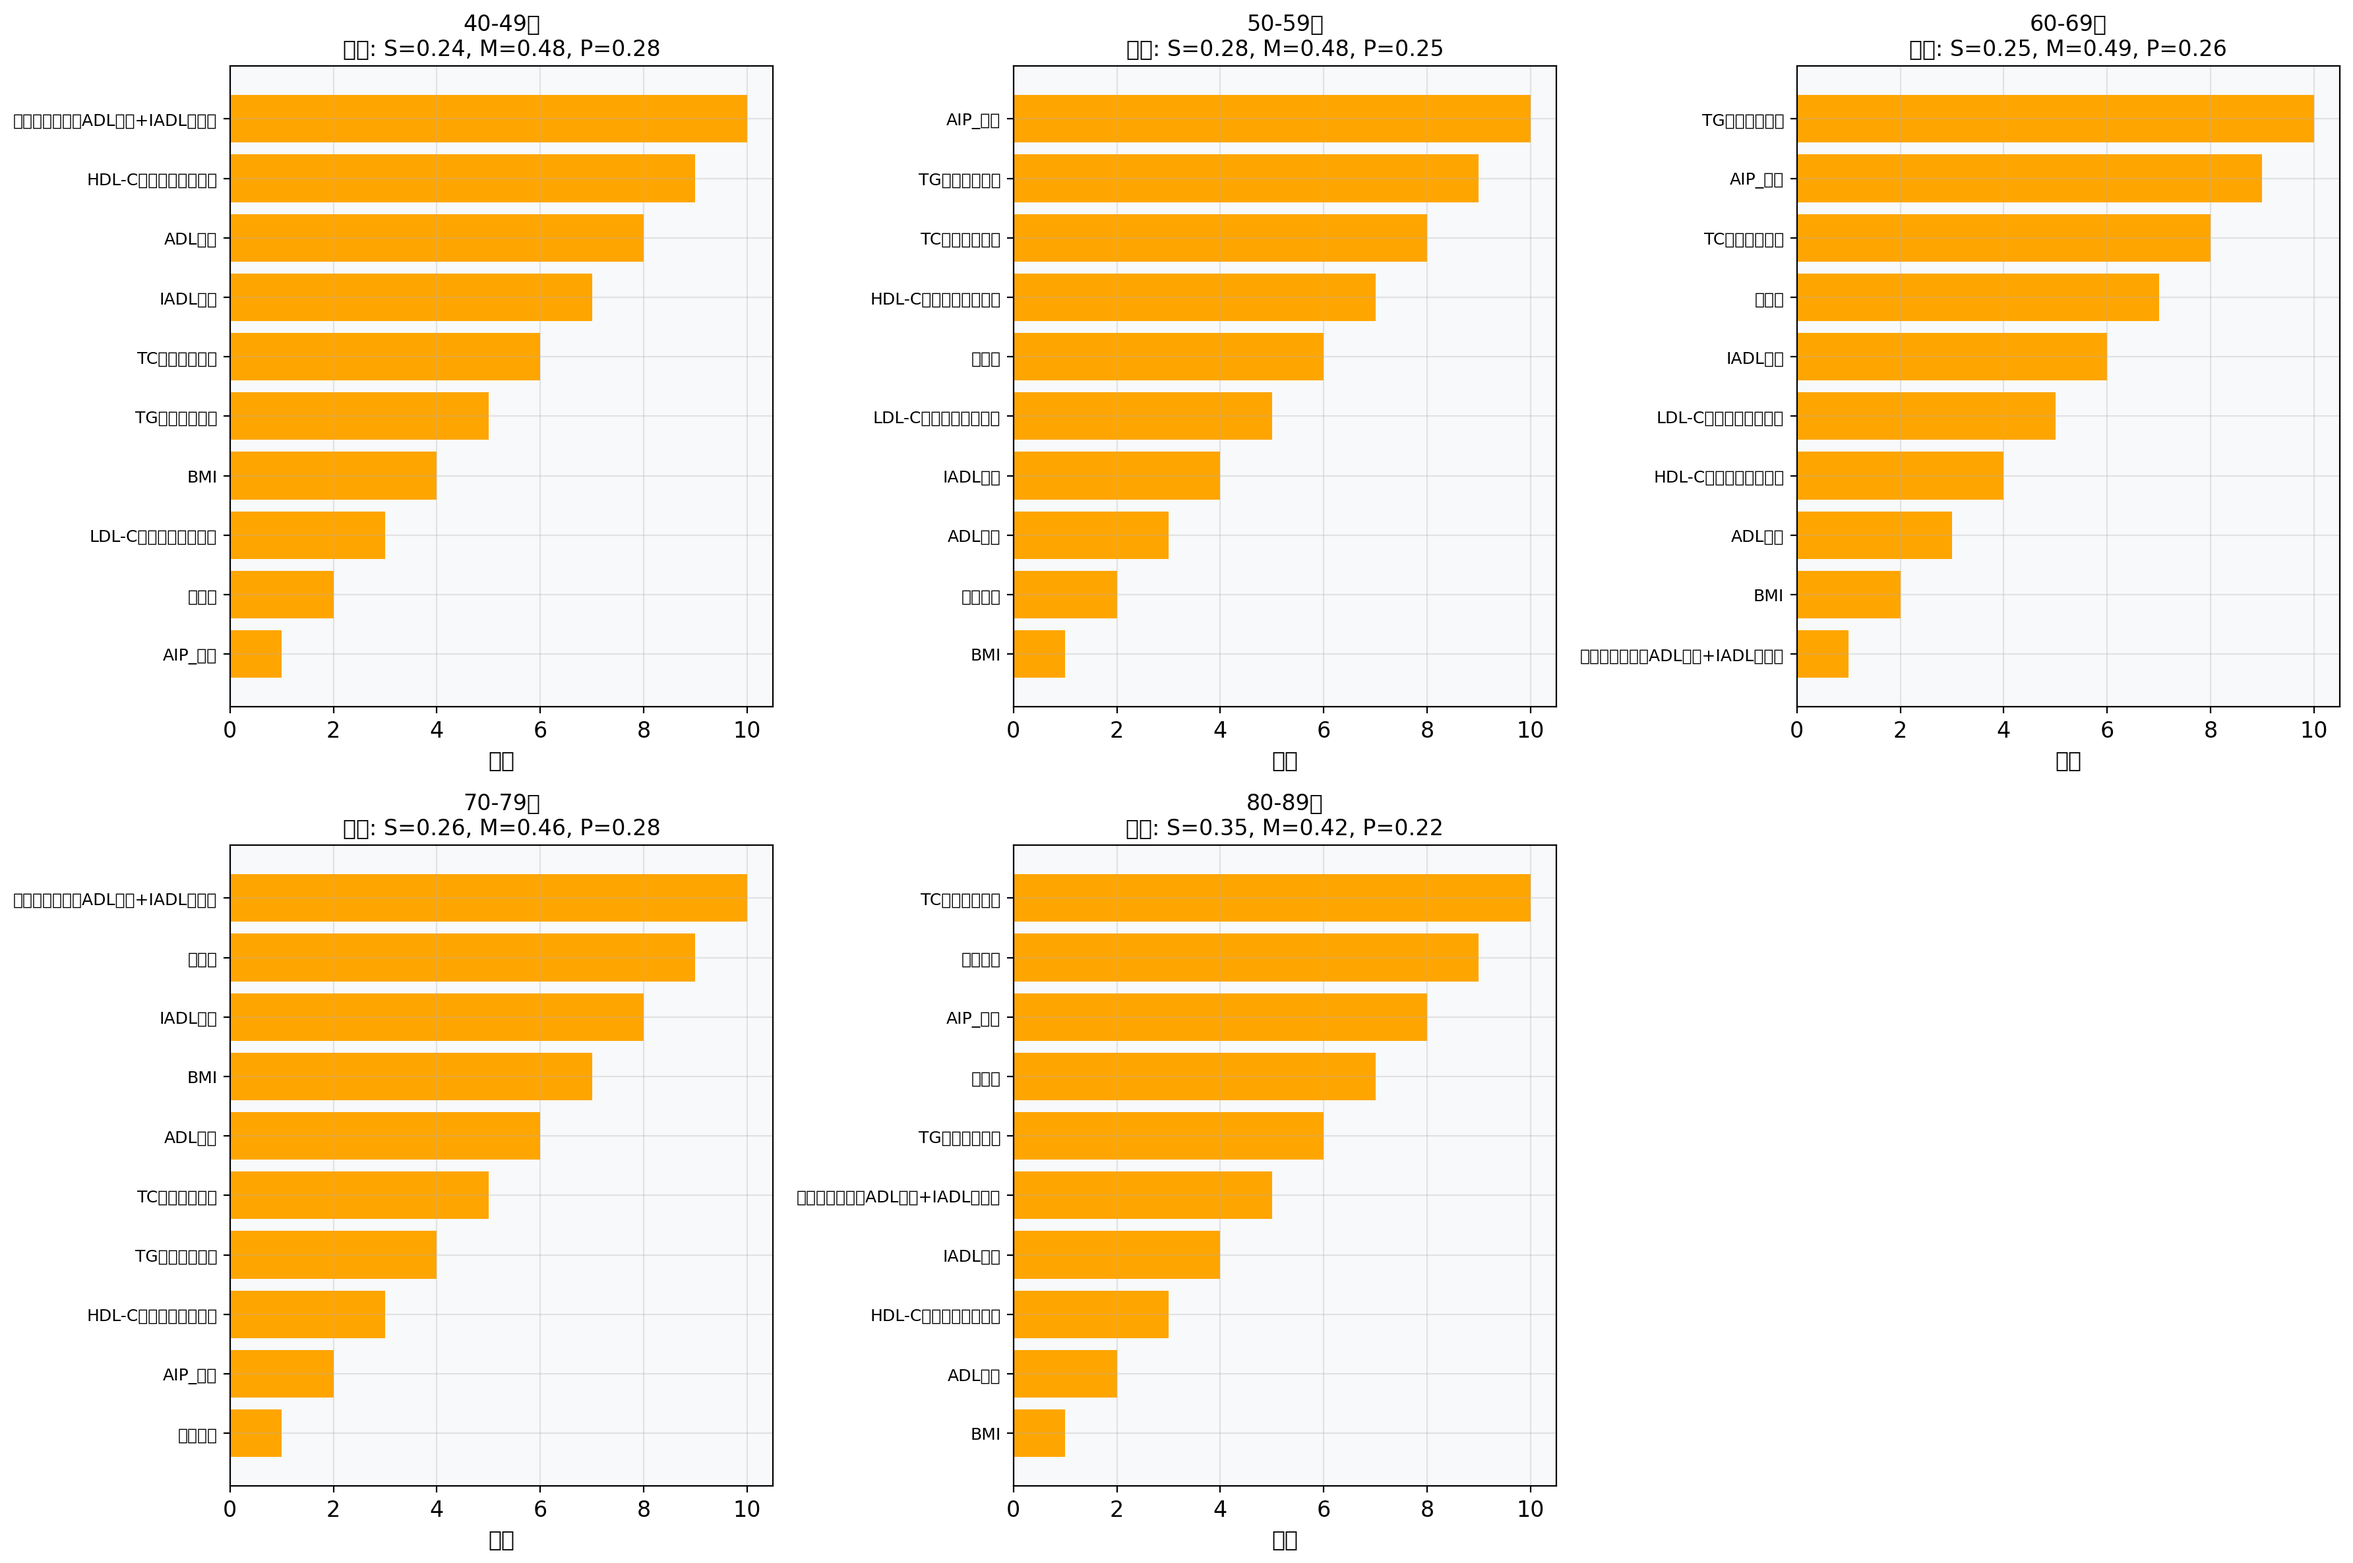
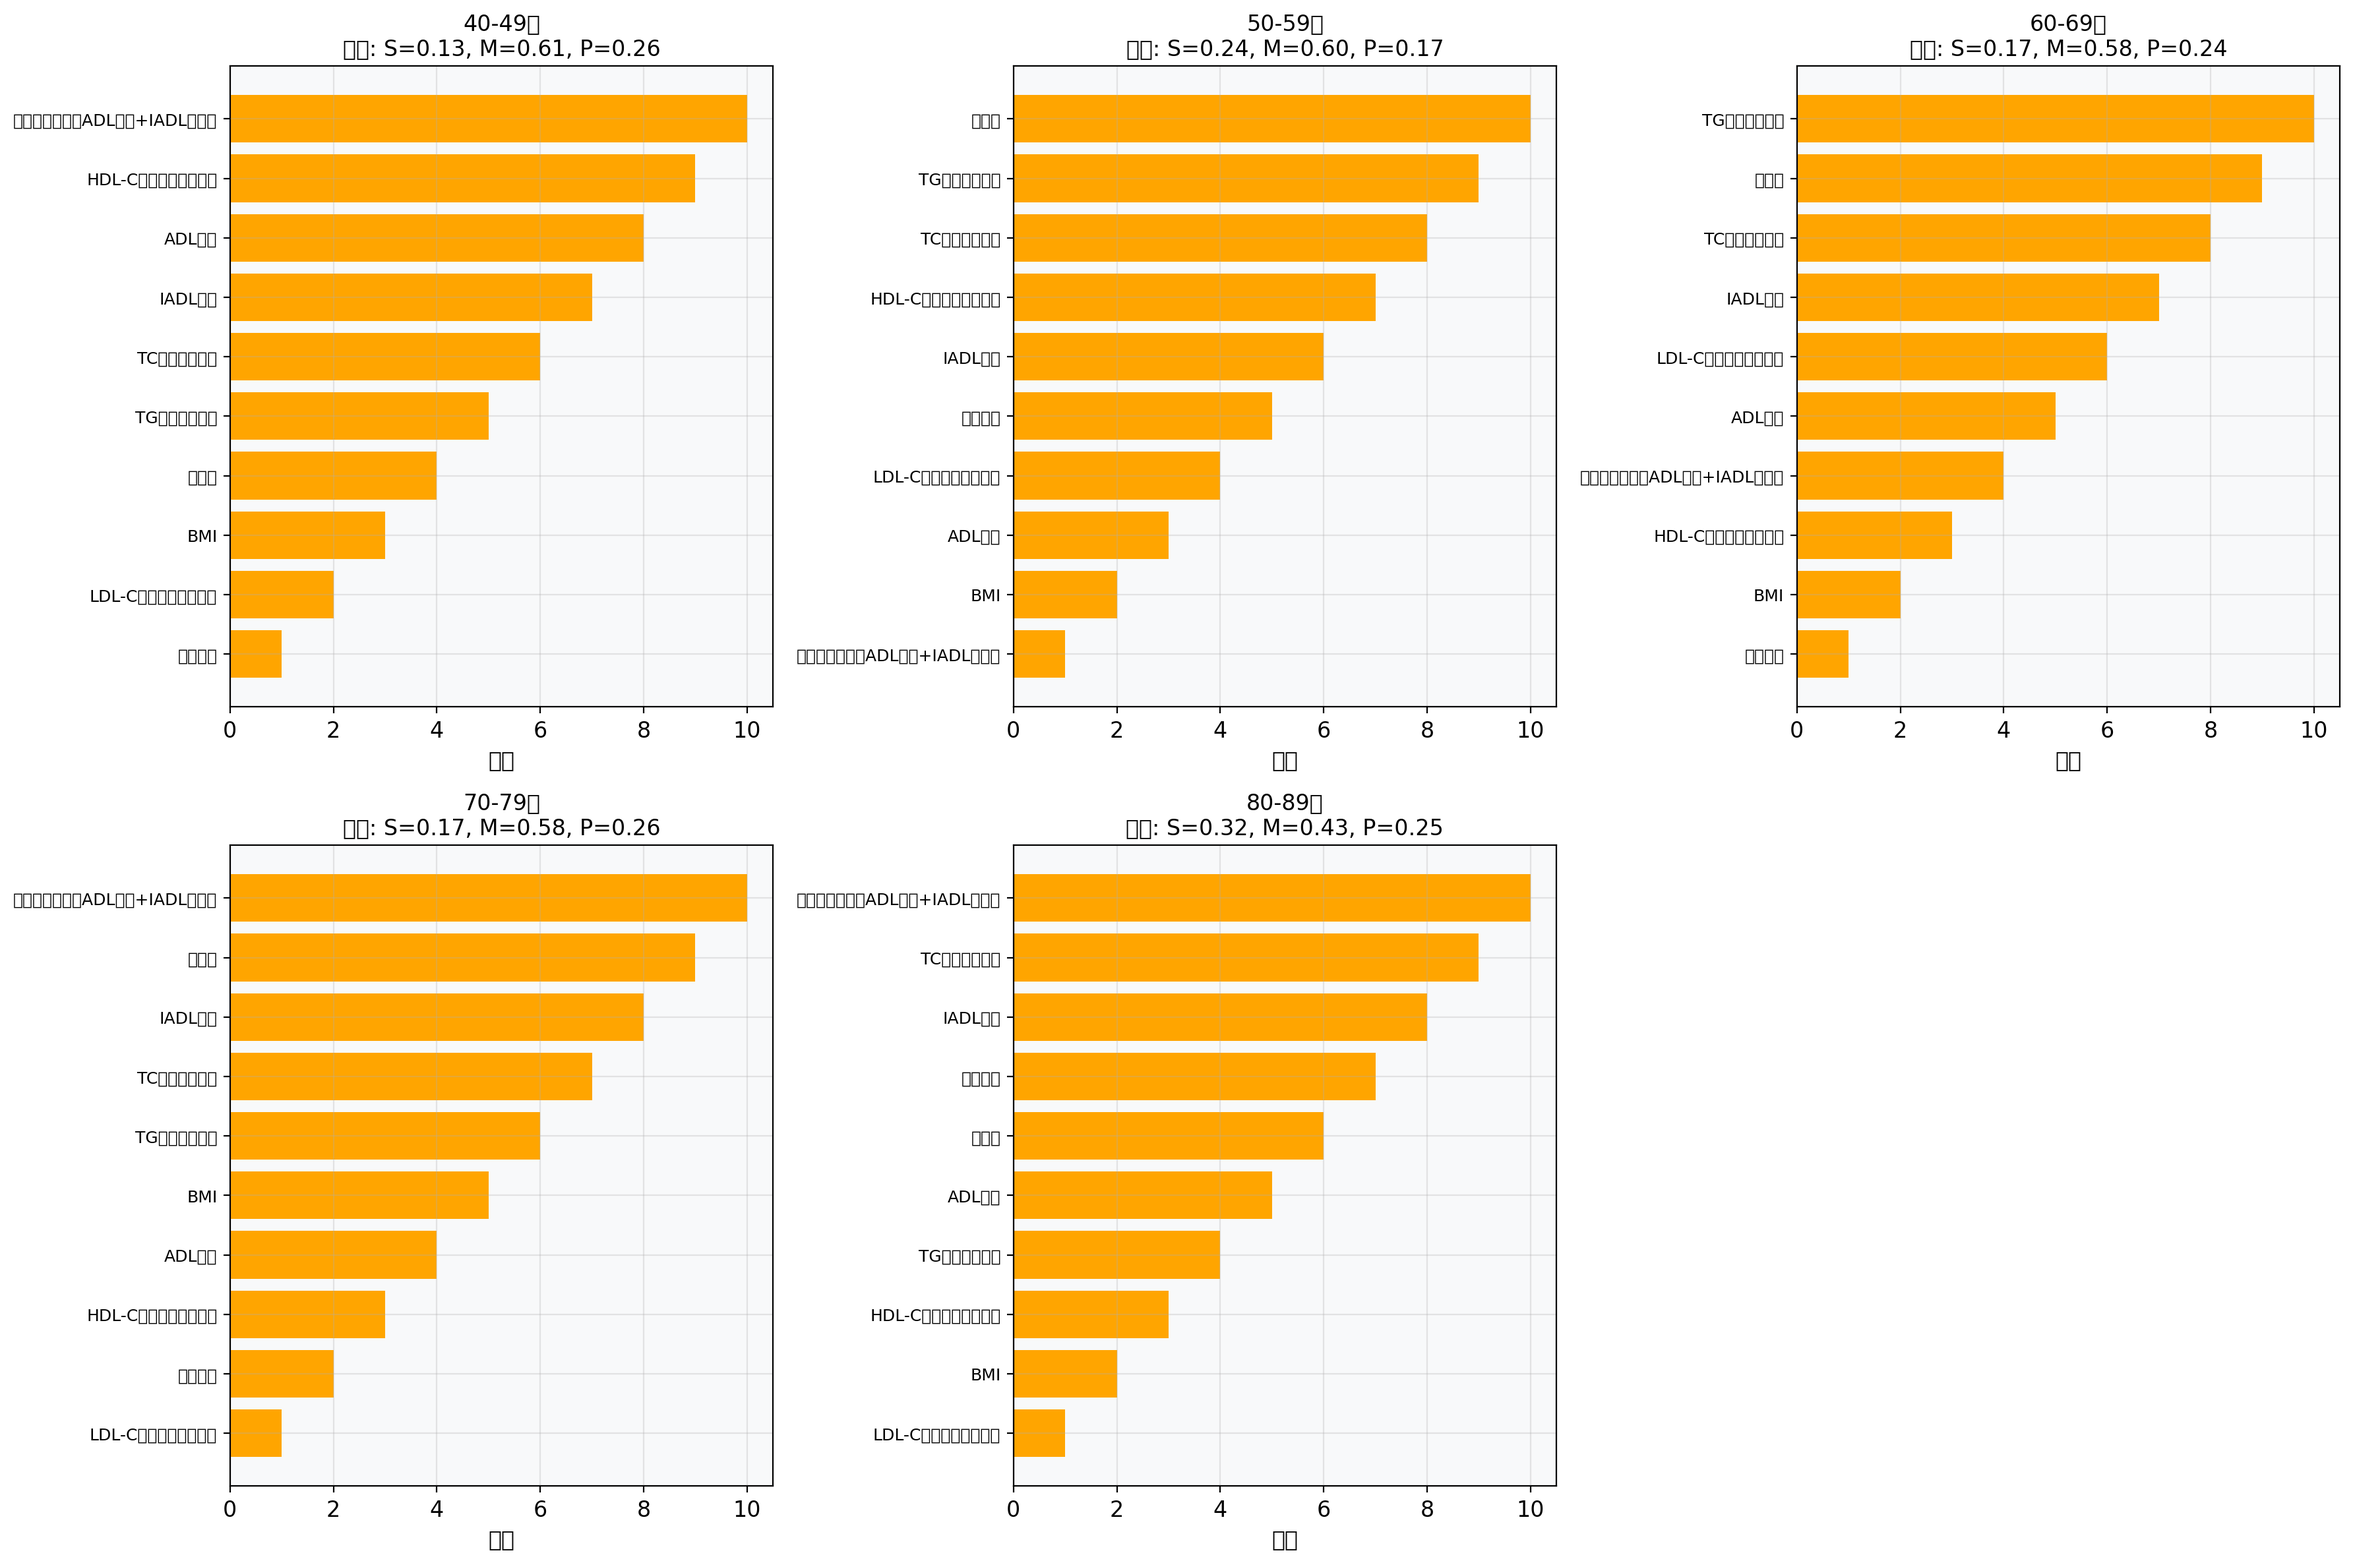
Revert commits 68dbbd4..68dbbd4
This reverts 1 commit(s) from 68dbbd4 to 68dbbd4.

Reverted commits:
68dbbd4 feat: 搭建项目架构

diff --git a/Project_mat/sensitivity_analysis_problem1.py b/Project_mat/sensitivity_analysis_problem1.py
@@ -29,8 +29,7 @@ class Problem1SensitivityAnalyzer:
     def __init__(self):
         self.data = None
         self.blood_indicators = ['TC（总胆固醇）', 'TG（甘油三酯）', 'LDL-C（低密度脂蛋白）', 
-                               'HDL-C（高密度脂蛋白）', '空腹血糖', '血尿酸', 'BMI',
-                               'non-HDL-C——缩尾', 'AIP_缩尾', 'TC/HDL_缩尾', 'LDL/HDL_缩尾', 'TG/HDL_缩尾']
+                               'HDL-C（高密度脂蛋白）', '空腹血糖', '血尿酸', 'BMI']
         self.activity_indicators = ['ADL总分', 'IADL总分', '活动量表总分（ADL总分+IADL总分）']
         self.constitution_types = ['平和质', '气虚质', '阳虚质', '阴虚质', '痰湿质', '湿热质', '血瘀质', '气郁质', '特禀质']
         self.target_phlegm = '痰湿质'
